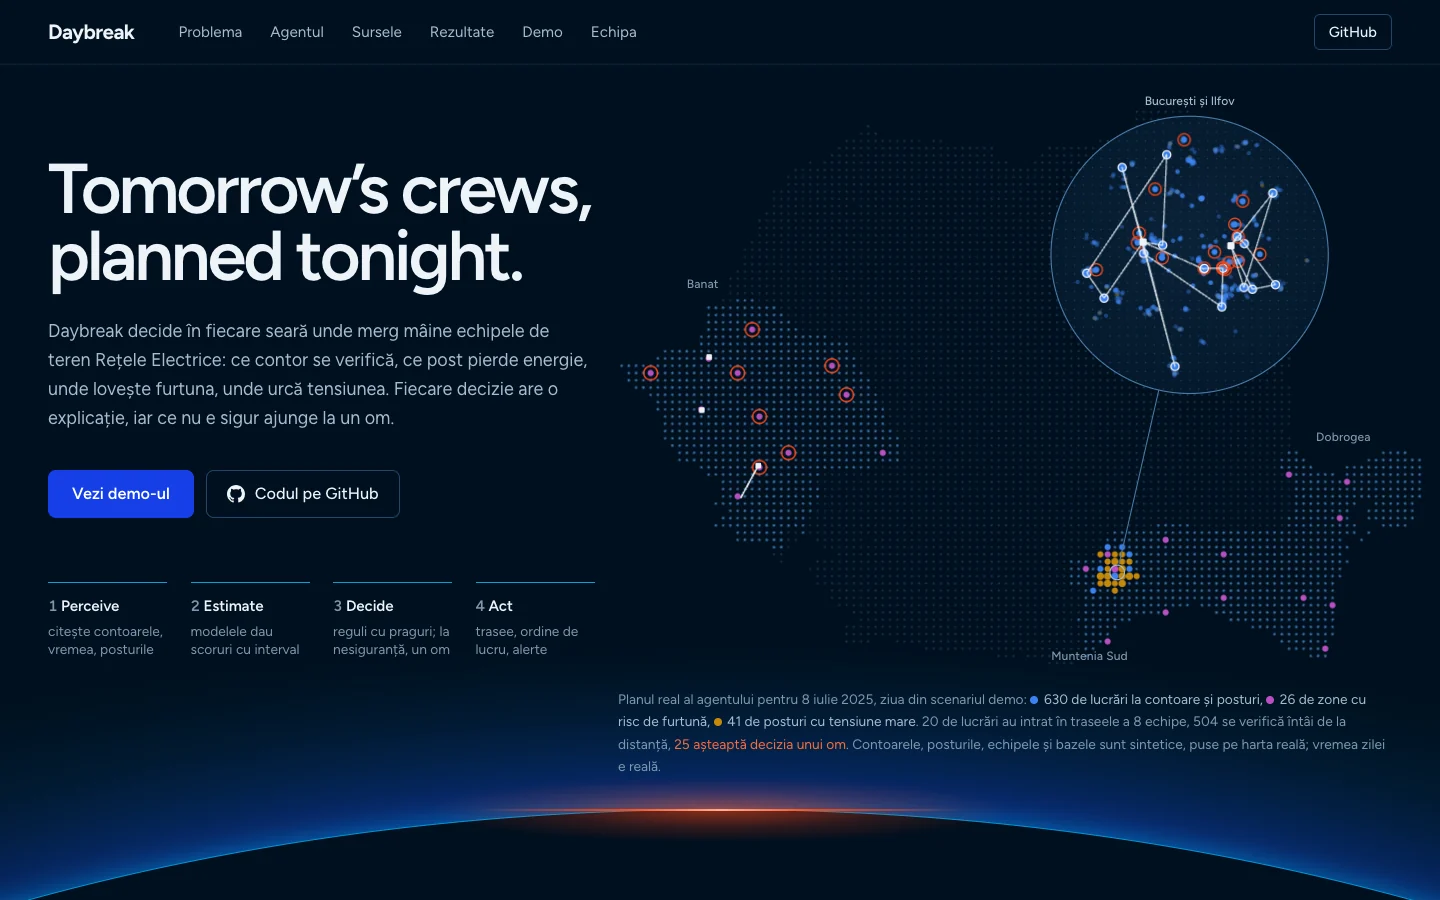
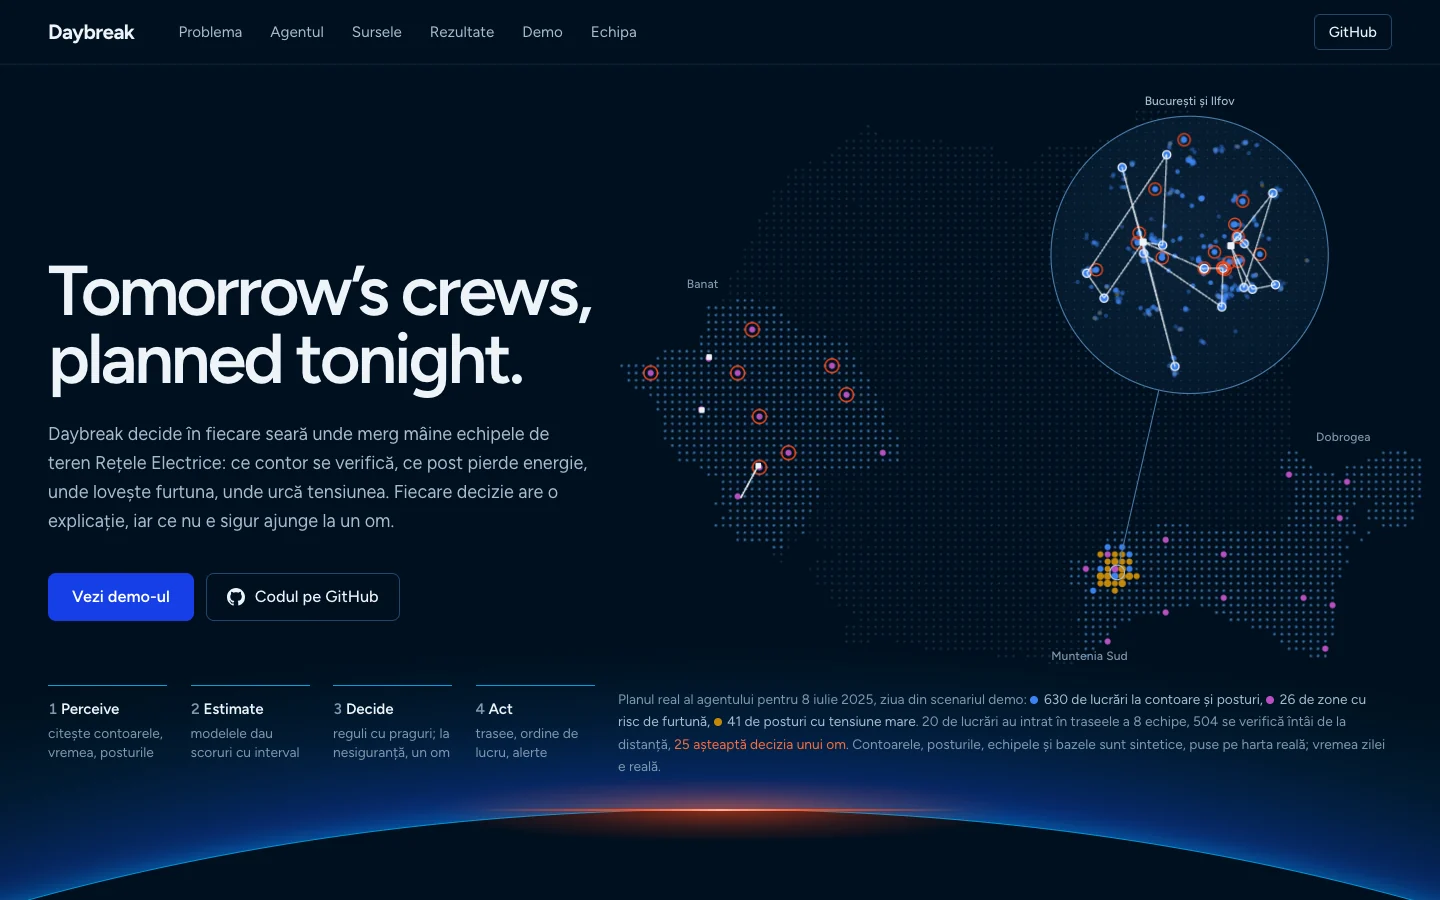
Landing: research pe cele 10 site-uri, export static care merge de pe disc, hero reordonat pentru mobil
docs/research/landing.md: ce iau din fiecare site și de ce, licențele componentelor,
fontul (Figtree, ș/ț verificate), paleta PPC cu contrast, direcția și structura secțiunilor.
scripts/relativize.ts face căile relative după build; scripts/serve.ts servește out/ pe 3730.

diff --git a/landing/components/hero.tsx b/landing/components/hero.tsx
@@ -19,8 +19,8 @@ export function Hero({ map }: { map: HeroMapData }) {
   return (
     <section id="top" aria-labelledby="hero-title" className="relative isolate overflow-hidden">
       <Horizon />
-      <div className="mx-auto grid max-w-[1440px] gap-10 2xl:max-w-[1680px] px-5 pt-10 pb-24 sm:px-8 lg:min-h-[calc(100dvh-4rem)] lg:grid-cols-12 lg:items-center lg:gap-6 lg:pt-6 lg:pb-28 xl:px-12">
-        <div className="lg:col-span-5 lg:pb-16">
+      <div className="mx-auto grid max-w-[1440px] gap-x-6 gap-y-12 px-5 pt-10 pb-24 sm:px-8 lg:min-h-[calc(100dvh-4rem)] lg:grid-cols-12 lg:grid-rows-[1fr_auto_1fr] lg:pt-6 lg:pb-28 xl:px-12 2xl:max-w-[1680px]">
+        <div className="lg:col-span-5 lg:col-start-1 lg:row-start-2">
           <h1
             id="hero-title"
             className="hero-rise text-[clamp(2.9rem,4.9vw,5.3rem)] leading-[0.95] font-semibold tracking-[-0.045em] text-balance"
@@ -48,7 +48,13 @@ export function Hero({ map }: { map: HeroMapData }) {
               Codul pe GitHub
             </a>
           </div>
-          <ol className="hero-rise mt-14 grid max-w-[40rem] grid-cols-2 gap-x-6 gap-y-6 sm:grid-cols-4 lg:mt-16" aria-label="Pașii agentului" style={{ "--delay": "320ms" } as Vars}>
+        </div>
+
+        <ol
+          className="hero-rise grid max-w-[40rem] grid-cols-2 gap-x-6 gap-y-6 self-start sm:grid-cols-4 lg:col-span-5 lg:col-start-1 lg:row-start-3 lg:mt-4 max-lg:order-last"
+          aria-label="Pașii agentului"
+          style={{ "--delay": "320ms" } as Vars}
+        >
             {STEPS.map((s, i) => (
               <li key={s.name} className="min-w-0">
                 <div className="relative h-px bg-rule">
@@ -60,10 +66,9 @@ export function Hero({ map }: { map: HeroMapData }) {
                 <p className="mt-1 text-[0.86rem] leading-snug text-ink-3">{s.ro}</p>
               </li>
             ))}
-          </ol>
-        </div>
+        </ol>
 
-        <figure className="relative lg:col-span-7 lg:-mr-4 xl:-mr-8">
+        <figure className="relative lg:col-span-7 lg:col-start-6 lg:row-span-3 lg:row-start-1 lg:-mr-4 lg:self-center xl:-mr-8">
           <HeroMap map={map} />
           <figcaption className="mt-5">
             {p ? (

diff --git a/landing/scripts/relativize.ts b/landing/scripts/relativize.ts
@@ -1,0 +1,39 @@
+/**
+ * După `next build` (output: "export"), căile spre `/_next/...` sunt absolute. Deschisă de pe disc
+ * (file://), pagina le-ar căuta la rădăcina discului. Scriptul le face relative în `out/`:
+ * - în HTML (index.html stă la rădăcina lui out/): `/_next/` → `./_next/`;
+ * - în CSS (fișierele stau în `out/_next/static/...`): `/_next/static/` → relativ față de fișier.
+ * Pe un server obișnuit, căile relative merg la fel.
+ */
+import { readdirSync, readFileSync, statSync, writeFileSync } from "node:fs";
+import path from "node:path";
+
+const OUT = path.join(import.meta.dir, "..", "out");
+
+function walk(dir: string): string[] {
+  return readdirSync(dir).flatMap((name) => {
+    const p = path.join(dir, name);
+    return statSync(p).isDirectory() ? walk(p) : [p];
+  });
+}
+
+let changed = 0;
+for (const file of walk(OUT)) {
+  const ext = path.extname(file);
+  if (![".html", ".css", ".txt"].includes(ext)) continue;
+  const before = readFileSync(file, "utf8");
+  let after = before;
+  if (ext === ".css") {
+    const rel = path.relative(path.dirname(file), path.join(OUT, "_next")).split(path.sep).join("/") || ".";
+    after = after.replaceAll("/_next/", `${rel}/`);
+  } else {
+    const rel = path.relative(path.dirname(file), OUT).split(path.sep).join("/") || ".";
+    // atribute HTML, url() din <style> inline și căile din payload-ul RSC
+    after = after.replace(/(["'(\s=])\/_next\//g, `$1${rel}/_next/`);
+  }
+  if (after !== before) {
+    writeFileSync(file, after);
+    changed++;
+  }
+}
+console.log(`relativize: ${changed} fișiere actualizate în out/`);

diff --git a/landing/scripts/serve.ts b/landing/scripts/serve.ts
@@ -1,0 +1,18 @@
+/** Servește exportul static (`out/`) pe http://localhost:3730, ca verificare înainte de prezentare. */
+import path from "node:path";
+
+const OUT = path.join(import.meta.dir, "..", "out");
+const port = Number(process.env.PORT ?? 3730);
+
+Bun.serve({
+  port,
+  async fetch(req) {
+    const url = new URL(req.url);
+    let p = decodeURIComponent(url.pathname);
+    if (p.endsWith("/")) p += "index.html";
+    const file = Bun.file(path.join(OUT, path.normalize(p).replace(/^(\.\.[/\\])+/, "")));
+    if (await file.exists()) return new Response(file);
+    return new Response("Nu există", { status: 404 });
+  },
+});
+console.log(`Landing-ul (export static) pe http://localhost:${port}`);

diff --git a/docs/research/landing.md b/docs/research/landing.md
@@ -1,0 +1,85 @@
+# Landing-ul Daybreak: research vizual
+
+Firul Teo-landing, 7 nov. 2026, 17:16-17:40. Scopul: un landing premium, ușor de ținut minte, pentru juriul PPC și pentru repo, în paleta și designul PPC, inspirat din cele 10 site-uri date de Teo.
+
+## Cum am studiat
+
+- Capturi cu `agent-browser` în mod headless (doar vizualizare, fără conturi și fără formulare), la 1440×900, câte 5-8 poziții de derulare pe site, plus prima ecranare pe mobil (390×844). Din pagină am citit fonturile încărcate, culorile din variabilele CSS, bibliotecile de animație și structura titlurilor.
+- Capturile stau local, în `/tmp/landing-research/` (nu intră în git: sunt site-urile altora).
+- ppcgroup.com și reteleelectrice.ro blochează browserele automate (Imperva, „Error 15”). Paleta lor vine din verificarea firului Interfață pe CSS-ul site-urilor (`status/Teo-ui.md`, 12:50); designul PPC l-am studiat pe ppcenergy.ro, care s-a deschis.
+
+## Ce iau din fiecare site
+
+| Site | Ce am văzut | Ce iau și de ce | Ce nu iau |
+|---|---|---|---|
+| bencho.dev | Negru, hero centrat și compact, insignă care se rotește („10,232 members”, „107 signed up today”), plăci cu micro-interacțiuni vii; forme din puncte (hexagon în rețea de puncte), selector de oră cu riglă, „Hold to record”. Inter + Google Sans. | **Rețeaua de puncte** devine harta din hero: România desenată din puncte, ca luminile unui oraș noaptea. Rigla cu ore e modelul pentru ziua unei echipe (08:00-16:00). | Fundalul negru pur (noi avem bleumarinul PPC), insigna rotativă (zgomot fără informație). |
+| beautifului.dev | Componente pentru interfețe cu agenți: „Approval Card” („Human-in-the-loop questions the agent asks before acting”), „Recommendation Card” cu nivel de încredere și Accept / Alternatives, „Thinking” cu pașii, „Task Rows”. Inter, gri închis, margini hașurate. | **Exact vocabularul de care avem nevoie**: cardul de aprobare pentru „Nu sunt sigur” (decide un om), cardul de recomandare cu încrederea modelului, pașii agentului ca rânduri cu stare. Le refacem în stilul nostru, pe datele reale ale planului. | Nu copiem cod (licență neclară, „Built by Turbo”); doar tiparul. |
+| reactbits.dev | Fundaluri animate (unde, aurore), „Tech Text”, „Hold Button” („Hold to confirm”), terminal cu comanda de instalare, secțiuni ritmate „What's inside / See them in action / One command”. Geist, violet. | **Butonul ținut apăsat** pentru aprobarea listei de către om (interacțiune care răspunde unei acțiuni, nu decor). **Blocul de comandă** pentru reproducere („o comandă refăce cifrele”). Ritmul titlurilor scurte, câte o idee pe secțiune. | Violetul și fundalurile WebGL pe toată pagina: ar concura cu harta. |
+| beui.dev | Titlu mare cu cuvinte evidențiate în „pastilă”, sponsori, grile de componente, „Number Animation” (48,273), „Swipeable List” (Priority queue), FAQ cu acordeon. Geist. | **Numerele care se numără** pentru cifrele modelelor (doar la apariție, o dată). **Lista de priorități** ca model pentru coada „Nu sunt sigur”. FAQ-ul, pentru întrebările juriului (`docs/QA-JURIU.md`). | Cuvintele evidențiate în titlu (tic de pagină generată). |
+| sceneai.art | Bibliotecă de prompturi, grile dense de capturi, buton cu degradeu roz, Lenis pentru derulare. | Puțin: confirmă că o grilă de imagini mari obosește; noi ținem o singură imagine puternică (harta). | Derularea „netezită” (Lenis): pe proiector e greu de controlat. |
+| amicro.vercel.app | „Small motion. Big difference.”, butoane cu micro-tranziții (morph, ring, glare), Outfit. | **Măsura**: mișcarea apare doar ca răspuns la o acțiune (copiere, aprobare). Butoanele noastre au doar apăsarea (scale 0,97) și culoarea. | Galeria de butoane. |
+| ui.shadcn.com | Hero centrat, mozaic de componente reale (formulare, grafice, carduri de plată), Geist, gri neutru. | **Disciplina**: componente reale în loc de ilustrații. La noi, cardurile din pagină arată date reale din planul agentului, nu exemple inventate. | Mozaicul de carduri identice (tiparul „SaaS”). |
+| koboyo.com/icons | 361.595 de iconițe desenate de mână (stiluri Original, Ink brush, Geometric), alb-negru. | Posibil pentru sursele A, B, C și bilanț (contor, furtună, panou solar, post): un desen de mână dă căldură unei pagini tehnice. Se descarcă direct (`/icons/svg/<nume>.svg`), fără cont. | Le folosim doar dacă arată bine pe bleumarin (inversate). |
+| is-agentic.com | Negru, o singură coloană îngustă, scoruri pe rânduri („100 /100”) cu linii subțiri, apoi text lung despre metodă. Geist și Geist Mono. Foarte sobru. | **Rândurile de scor** pentru rezultate: model, metrica, cifra noastră față de metoda simplă, pe același rând, aliniate. **Textul despre metodă** într-o coloană îngustă, ușor de citit (setul de test, ce e sintetic, comanda de reproducere). | Monospace-ul pentru cifre (tic); folosim cifre tabulare din fontul nostru. |
+| originkit.dev | Galerie de 805 componente cu previzualizări video, filtre pe categorii (Background 295, Text 91), fereastră promoțională la intrare. Inter. | Puțin: fără ferestre la intrare. Categoriile cu număr confirmă eticheta cu cifră (ex. „25 la un om”). | Fereastra modală, galeria. |
+| ppcenergy.ro (designul PPC) | Fundal alb și gri deschis, carduri cu colțuri de 8-12 px, footer negru rotunjit, butoane cu raza de 8 px, albastrul `#163fe8` pe câmpuri active, font PingLCG (300-700), mult foto. | **Raza de 8 px** pe butoane, **albastrul `#163fe8`** pe butonul principal (alb pe albastru, contrast 7,2), titluri drepte, fără efecte. | Fotografiile de stoc, logoul, fontul PingLCG (proprietar). |
+
+## Licențele componentelor (dacă copiem cod)
+
+Până acum nu am copiat nicio componentă: hero-ul și harta sunt scrise de noi. Dacă preluăm cod, regula e:
+
+| Sursă | Licența | Ce înseamnă pentru noi |
+|---|---|---|
+| React Bits (DavidHDev/react-bits) | MIT + Commons Clause (citit din fișierul LICENSE prin API-ul GitHub) | Se poate folosi într-un site sau o aplicație, păstrând nota de copyright; nu se pot revinde sau redistribui componentele ca atare. Un landing care le folosește e permis. |
+| shadcn/ui (shadcn-ui/ui) | MIT | Liber, cu nota de copyright. |
+| beUI (beui.dev) | MIT pentru componentele gratuite („MIT licensed for personal and commercial projects”, pe pagina lor); Pro e plătit | Doar componentele gratuite, cu nota MIT. |
+| Amicro (Subhan-code/Amicro--Micro-transitions-) | MIT | Liber, cu nota de copyright. |
+| Originkit (originkit.dev) | Nu am găsit o licență publică a componentelor | Nu copiem cod. |
+| bencho.dev, beautifului.dev, sceneai.art | Produse comerciale, fără licență deschisă găsită | Doar inspirație, fără cod. |
+| Koboyo Icons | Gratuite pentru uz personal și comercial, fără atribuire obligatorie; interzisă redistribuirea colecției (pagina koboyo.com/icons/license) | Câteva iconițe în pagină sunt permise. |
+
+Orice componentă copiată primește un comentariu în fișier cu sursa, licența și data, iar tabelul de aici se actualizează.
+
+## Fontul
+
+PingLCG (PPC) e proprietar. Am comparat 12 fonturi libere, randate pe același text românesc (`/tmp/landing-research/fonts/compare.png`): Figtree, Plus Jakarta Sans, Onest, DM Sans, Albert Sans, Manrope, Instrument Sans, Archivo, Geologica, Golos Text, Red Hat Display, Schibsted Grotesk. Cel mai apropiat de PingLCG (geometric, rotund, „a” cu două niveluri, „g” cu un nivel, x-height mare): **Figtree** (OFL), cu Onest pe locul doi.
+
+Verificat în fișierele woff2 de la Google Fonts (fontTools): ș, ț, Ș, Ț cu virgulă dedesubt (U+0219, U+021B, U+0218, U+021A) în subsetul latin-ext; ă, â, î în latin; cifre tabulare (`tnum`); axa de greutate 300-900. Consola folosește Archivo; landing-ul e mai aproape de PPC, iar culorile surselor rămân aceleași, ca să se vadă că e același produs.
+
+## Paleta și contrastul (WCAG, pe `#000f1e`)
+
+| Rol | Culoare | Contrast |
+|---|---|---|
+| Fundal (bleumarin PPC) | `#000f1e` | |
+| Text | `#eef3f8` | 17,3 |
+| Text secundar | `#a9bccd` | 9,9 |
+| Text terțiar | `#8197ac` | 6,4 |
+| Albastru PPC (agentul, focus) | `#00a3e0` | 6,7 |
+| Portocaliu PPC (decide un om, soarele) | `#fa4616` | 5,5 |
+| Albastru PPC Energie (butonul principal, alb pe el) | `#163fe8` | 7,2 (alb pe albastru) |
+| A contoare și bilanț (din consolă) | `#3b82f0` | 5,2 |
+| B furtună (din consolă) | `#b84fc0` | 4,5 |
+| C tensiune (din consolă) | `#c4880a` | 6,3 |
+
+Culorile surselor sunt varianta pentru fundal închis din consolă (validate pentru daltonism de firul Interfață). Pe `#0a2238` (plăci), B coboară la 3,8: B apare doar pe puncte și semne, nu pe text mic.
+
+## Direcția vizuală
+
+- **Ideea**: culorile PPC formează un răsărit (noaptea bleumarin, albastrul, cianul, soarele portocaliu). Agentul lucrează seara, planul e gata în zori. Hero-ul se termină cu un arc de orizont în culorile PPC, cu soarele portocaliu la mijloc.
+- **Lucrul care se ține minte**: harta României din puncte, cu zona Rețele Electrice aprinsă și lucrările reale ale zilei demo (8 iulie 2025) pe aceeași grilă: contoarele, furtuna și tensiunea în culorile consolei, traseele echipelor în alb, o lupă peste București și Ilfov, cercuri portocalii la cazurile trimise la un om. O singură secvență la încărcare (circa 4 secunde): Perceive, Estimate, Decide (cele mai multe lucrări se sting: merg la verificare de la distanță), Act (traseele se desenează).
+- **Tipografie**: Figtree, o singură familie. Titluri scurte în engleză (cel mult 5 cuvinte, ca în film), mari, cu spațiere strânsă; textul în română, 18-21 px, rânduri sub 70 de caractere.
+- **Liniștea din jur**: fără mozaic de carduri, fără degradeuri decorative, fără etichete cu majuscule deasupra titlurilor. Culoarea apare doar când înseamnă ceva (sursa, omul, agentul).
+- **Mișcarea**: secvența din hero, cifrele care se numără o dată, butonul ținut apăsat pentru aprobare. Totul se oprește cu `prefers-reduced-motion`.
+
+## Structura secțiunilor (propunere)
+
+1. **Hero**: „Tomorrow’s crews, planned tonight.” Harta cu planul real, cei 4 pași.
+2. **Problema** („Where do crews go first?”): cifre publice cu sursa și data (3,18 mil. de utilizatori RE, 385.791 de prosumatori, pierderi 8,66% în Muntenia, circa 85% din compensațiile automate).
+3. **Agentul** („Perceive. Estimate. Decide. Act.”): ce citește, ce estimează, cum decide (praguri, cost, capacitate), ce face.
+4. **Sursele** („Fallen poles. Stolen power. Too much sun.”): A contoare, bilanțul pe post, B furtună, C tensiune, fiecare cu modelul și acțiunea.
+5. **Scara de soluții C** („Cheapest fix first.”): cele 6 trepte, cu un post real din planul demo (P90 înainte și după).
+6. **Omul în buclă** („Not sure? It asks you.”): cardul de aprobare pe un caz real din coadă, butonul ținut apăsat.
+7. **Explicabilitate** („Every decision has a reason.”): urmărirea unei decizii până la predicție, model, factori, regulă și prag.
+8. **Rezultate** („Better than the simple way.”): rândurile de scor, cifrele doar din `reports/*/metrics.json` și `reports/planner/agent_eval.json`; ce lipsește rămâne „în lucru”.
+9. **Demo** („See it run.”): consola (`make web-demo`, `/demo`), locul filmului de 30 s, comenzile.
+10. **Echipa și repo**: CyberPunks, SmartHack XI 2026; subsolul cu „Nu este un produs oficial PPC”.

diff --git a/status/Teo-landing.md b/status/Teo-landing.md
@@ -1,30 +1,49 @@
 # Status: Teo-landing
-Actualizat: 2026-11-07 17:20
-Milestone curent: M0 (19:00: research pe cele 10 site-uri, direcția vizuală, structura secțiunilor, hero-ul randat)
-Gata de merge: nu
+Actualizat: 2026-11-07 17:45
+Milestone curent: M0 (19:00) gata devreme: research, direcția, structura, hero-ul randat. Aștept părerea lui Teo pe capturi înainte de restul secțiunilor.
+Gata de merge: nu (după ce Teo vede hero-ul)
 
 ## Făcut
-- 17:16 Citite: `prompts/_comun.md`, `AGENTS.md`, `memory/INDEX.md`, jurnalul, `07-tema-ppc.md`, `10-implementare.md`, `11-bilant-pe-post.md`, `12-probleme-reale-ppc-2026.md`, `status/Teo-ui.md`, `status/Teo-prezentare.md`, `reports/*/metrics.json`, `reports/planner/agent_eval.md`.
+- 17:16 Citite: `prompts/_comun.md`, `AGENTS.md`, memoria (INDEX, jurnal, 07, 10, 11, 12), `status/Teo-ui.md`, `status/Teo-prezentare.md`, `reports/*/metrics.json`, `reports/planner/agent_eval.md`, cadrele filmului (`presentation/frames-codex/v1/FRAMES.md`, textele în engleză).
+- 17:25 Research pe cele 10 site-uri plus ppcenergy.ro (capturi headless la 1440×900 și 390×844, fonturi, culori, biblioteci): `docs/research/landing.md` (ce iau din fiecare și de ce, licențele, fontul, paleta). ppcgroup.com și reteleelectrice.ro blochează browserele automate; paleta lor vine din verificarea firului Interfață.
+- 17:28 Font: **Figtree** (OFL), cel mai apropiat liber de PingLCG din 12 comparate; ș/ț/Ș/Ț cu virgulă verificate în fișierele woff2, cifre tabulare.
+- 17:30 Paleta PPC cu contrast AA pe `#000f1e` (text 17,3; albastru PPC 6,7; portocaliu 5,5; buton alb pe `#163fe8` 7,2). Culorile surselor A/B/C din consolă (varianta închisă).
+- 17:40 Aplicația `landing/` (Next.js 16.4, Tailwind 4, bun, export static) și hero-ul: harta României din puncte, zona Rețele Electrice aprinsă, lucrările reale din planul demo (8 iulie 2025, din `outputs/demo/`), traseele celor 8 echipe, lupa peste București și Ilfov, cercuri portocalii la cele 25 de cazuri pentru om; secvența Perceive → Estimate → Decide → Act doar în CSS, oprită de `prefers-reduced-motion`; arcul de orizont în culorile PPC.
+- 17:48 Hero reordonat: pe mobil harta vine imediat după butoane (pașii după hartă). `make check` trece (277 de teste).
+- 17:42 Exportul static (`bun run build`, 4 s) merge și deschis direct de pe disc (file://): fontul se încarcă, fără erori. `tsc` și `eslint` trec.
+- Capturi pentru Teo: `landing/design/captures/hero-1920x1080.webp`, `hero-1440x900.webp`, `hero-390x844.webp`, `hero-1440-secventa-2-7s.webp` (mijlocul animației).
 
 ## Urmează
-- Capturi și structura celor 10 site-uri de referință, plus site-urile PPC (ppcgroup.com, ppcenergy.ro) → `docs/research/landing.md` (ce iau din fiecare, de ce, licențele componentelor).
-- Schelet `landing/` (Next.js + Tailwind 4 + bun, export static), fontul ales cu ș/ț verificate, paleta PPC cu contrast AA.
-- Hero-ul randat, capturi la 1920×1080, 1440 și mobil, pentru Teo înainte de restul secțiunilor.
+- După părerea lui Teo pe hero: secțiunile Problema, Agentul, Sursele, Scara C, Omul în buclă, Explicabilitate, Rezultate, Demo, Echipa (structura în `docs/research/landing.md`).
+- Cifrele modelelor citite la build din `reports/`; „în lucru” unde lipsesc.
 
 ## Blocaje
 - niciunul
 
 ## Cereri către orchestrator
-- (17:20) Răspuns la întrebarea despre limbă: landing-ul e **în română** (textul, explicațiile, cifrele, cu ș/ț corecte), cu **titluri scurte în engleză** (cel mult 5 cuvinte), aceleași ca în film acolo unde se potrivesc. Ca în film: titlul în engleză, iar sub el fraza în română.
+- (17:20) Limba: landing-ul e **în română** (textul, explicațiile, cifrele, cu ș/ț corecte), cu **titluri scurte în engleză** (cel mult 5 cuvinte), aceleași ca în film acolo unde se potrivesc (ex. „Tomorrow’s crews, planned tonight.”, „Not sure? It asks you.”).
+- (17:45) Nimic de îmbinat încă; scriu „Gata de merge: da” după ce Teo vede hero-ul.
+- (17:50) JURNAL, pentru `memory/journal.md` (eu nu scriu în `memory/`): „17:45 Landing (fir nou Teo-landing, pornit la 17:15 de Teo): direcția vizuală = culorile PPC ca răsărit, hero cu harta României din puncte și planul real al zilei demo; font Figtree (liber, apropiat de PingLCG); port 3730; text în română, titluri scurte în engleză ca în film. Research în docs/research/landing.md.”
 
 ## Cum se rulează (comenzile exacte)
-- În lucru. Portul landing-ului: **3730** (`cd landing && bun dev`). 3720 rămâne al previzualizării video.
+- Dezvoltare: `cd landing && bun install && bun dev` → http://localhost:3730
+- Export static: `cd landing && bun run build` → `landing/out/` (se deschide și direct: `open landing/out/index.html`)
+- Verificarea exportului pe server: `cd landing && bun run preview` → http://localhost:3730
+- `cd landing && bun run lint && bun run typecheck`
+- Portul: **3730** (3720 e al previzualizării video).
 
 ## Cifre (doar din scripturi, cu comanda)
-- niciuna încă. Cifrele modelelor se citesc la build din `reports/<A|B|C|bilant>/metrics.json` și `reports/planner/agent_eval.json`; unde lipsesc, cadrul rămâne „în lucru”. La A nu se afișează precizia@K de 1,00 (Londra, defecte evidente), doar problemele subtile și SGCC.
+- Hero-ul arată numerele planului demo citite la build din `outputs/demo/plans/demo-vara/plan.json` și `work_items.jsonl` (instantaneul planificatorului, `uv run python -m cyberpunks.planner.snapshot --scenario demo-vara`): 697 de lucrări (A 630, B 26, C 41), 20 în traseele a 8 echipe, 504 verificate de la distanță, 25 la un om.
+- Cifrele modelelor vin doar din `reports/<A|B|C|bilant>/metrics.json` și `reports/planner/agent_eval.json`. La A nu afișez precizia@K de 1,00; afișez problemele subtile și SGCC, cu valorile din fișier (acum 0,625 față de 0,016 și 0,80 față de 0,106; orchestratorul a scris 0,61/0,02 și 0,81/0,11, cifrele mai vechi).
 
 ## Decizii (cu ora)
-- 17:18 Port 3730 (cererea orchestratorului; 3720 e al previzualizării video).
+- 17:18 Port 3730 (cererea orchestratorului).
 - 17:18 Limba: româna pentru tot textul, titluri scurte în engleză (cel mult 5 cuvinte), ca în film.
-- 17:19 Capturile site-urilor de referință: `agent-browser` în mod headless, doar vizualizare, fără conturi și formulare. Jev nu salvează capturi (raportează doar done/blocked și URL-ul), iar studiul cere capturi la rezoluții fixe pe fiecare secțiune; așa nu se deschid nici tab-uri în Helium-ul lui Teo.
-- 17:19 Nimic peste 5 MB în git: `landing/node_modules`, `landing/.next`, `landing/out` ignorate; imagini în WebP/AVIF, fonturi woff2, filmul legat, nu pus în repo.
+- 17:19 Capturile site-urilor de referință: `agent-browser` headless, doar vizualizare. Jev nu salvează capturi (raportează doar done/blocked și URL-ul), iar studiul cere capturi la rezoluții fixe; așa nu se deschid nici tab-uri în Helium-ul lui Teo.
+- 17:19 Nimic peste 5 MB în git: `landing/node_modules`, `.next`, `out` ignorate; capturile în WebP (27-135 KB); filmul se leagă, nu intră în repo.
+- 17:28 Figtree în locul lui Archivo (fontul consolei): brief-ul cere un font apropiat de PingLCG; culorile surselor rămân cele din consolă, ca să fie același produs.
+- 17:30 Direcția: culorile PPC ca răsărit (bleumarin → albastru → cian → soarele portocaliu); portocaliul înseamnă, ca în consolă, „decide un om”; traseele agentului în alb, ca în film.
+- 17:35 Hero-ul folosește planul real din `outputs/demo/` (nu date desenate de mână), etichetat: activele, echipele și bazele sunt sintetice, pe hartă reală; vremea e reală.
+- 17:40 Animația hero-ului doar în CSS, fără JS: merge și de pe disc; cu reduced motion se vede direct starea finală.
+- 17:41 `experimental.inlineCss` și scriptul `landing/scripts/relativize.ts` fac căile relative după build, ca pagina să meargă de pe disc în sală.
+- 17:43 Nicio componentă copiată încă (hero-ul e scris de noi). Dacă preiau cod: React Bits e MIT + Commons Clause (permis într-un site), shadcn, beUI gratuit și Amicro sunt MIT; Originkit, bencho, beautifului, sceneai doar ca inspirație.
